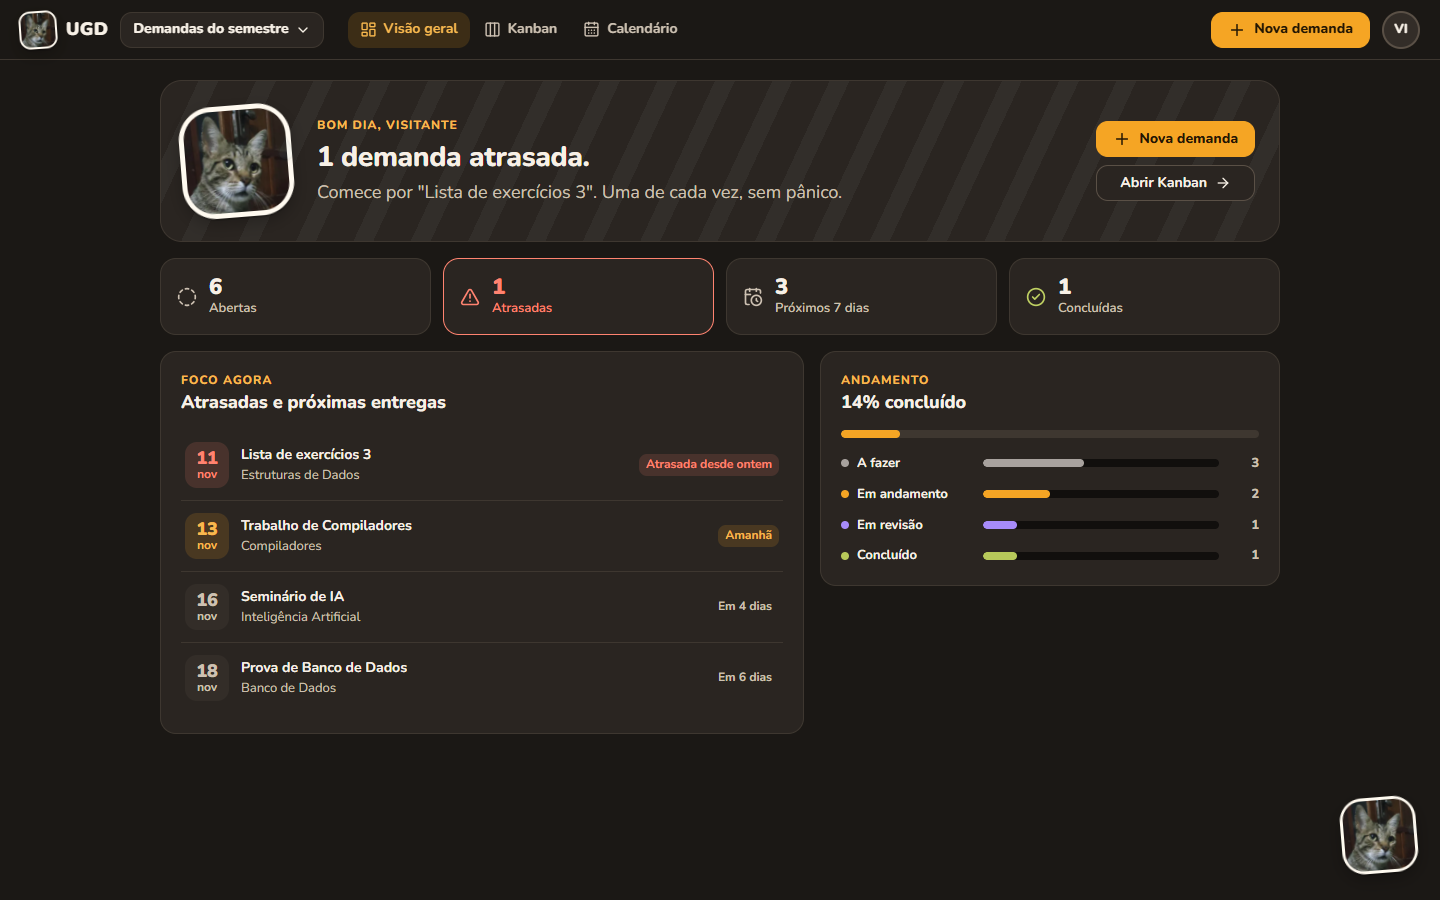
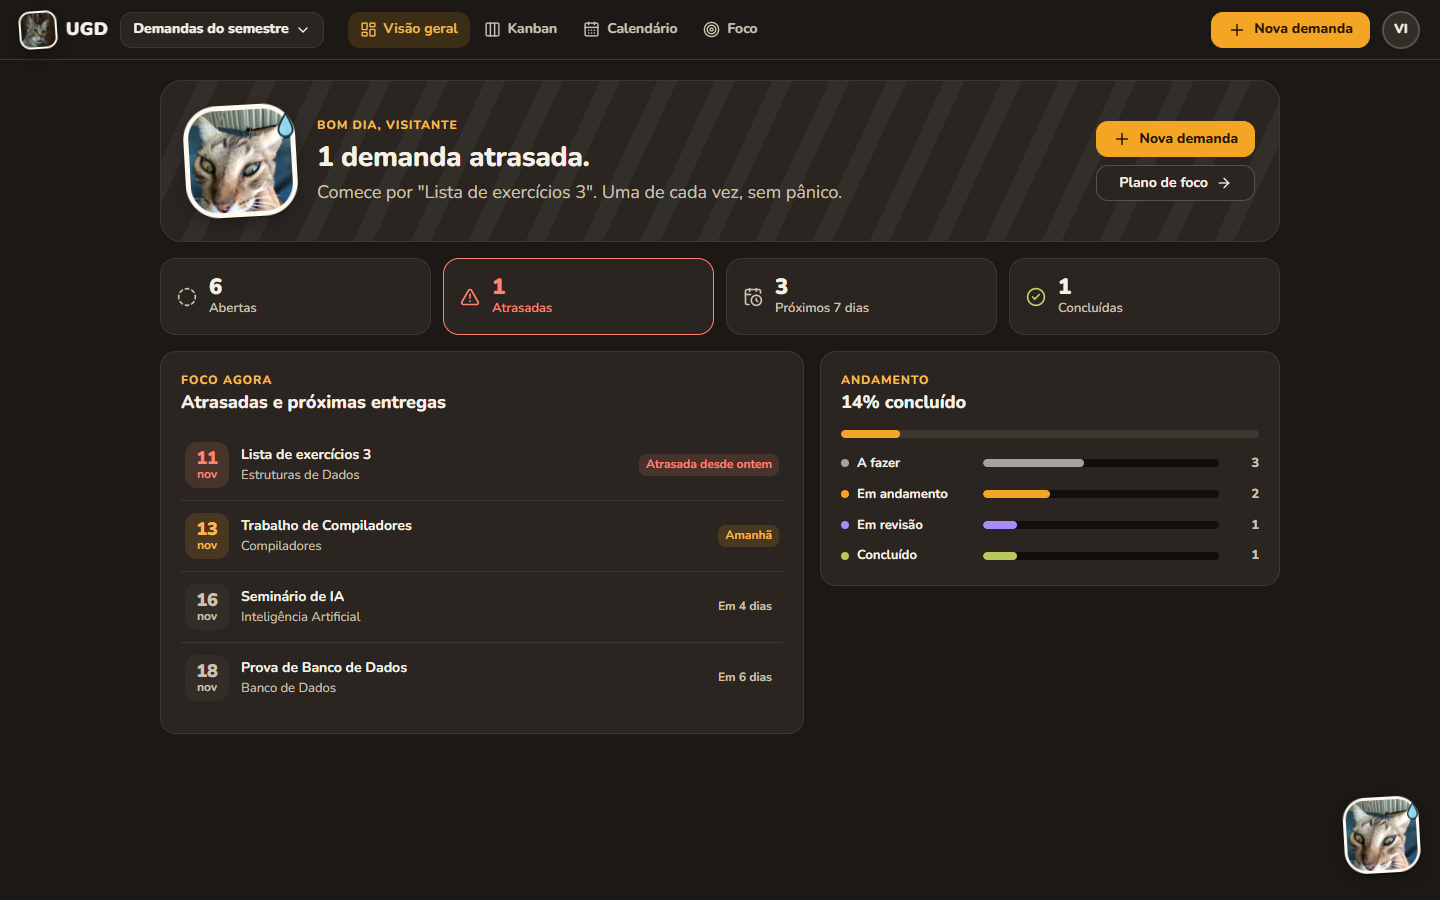
feat(foco): plano de foco / plano do fim de semana
Nova visão que ordena o que fazer: atrasadas, entregas em até 7 dias e o que já foi começado, com o próximo passo de cada demanda e botão para marcá-lo como feito. Entra na navegação (atalho 4) e na barra inferior do celular.

Changed region(s): [[0.125, 0.0933, 0.2188, 0.2489], [0.9062, 0.8711, 1.0, 0.9956], [0.7812, 0.1867, 0.8438, 0.2178]]

diff --git a/src/features/focus/FocusView.tsx b/src/features/focus/FocusView.tsx
@@ -1,0 +1,101 @@
+import { useMemo, useState } from 'react'
+import { ArrowRight, Check, Clock3, Plus } from 'lucide-react'
+import { useOutletContext } from 'react-router-dom'
+import { dueLabel, dueTone, formatDuration } from '../../lib/dates'
+import { buildPlan, type PlanItem } from '../../lib/insights'
+import { typeLabels } from '../../lib/types'
+import { Chiquinho } from '../../mascot/Chiquinho'
+import { catSay, type Mood } from '../../state/feedback'
+import type { BoardContext } from '../shell/BoardLayout'
+
+/**
+ * Plano de foco: a resposta para "é fim de semana, por onde eu começo?".
+ * Mostra, em ordem, o que resolver primeiro e qual é o próximo passo de cada demanda.
+ */
+export default function FocusView() {
+  const { store, openCard, openNew } = useOutletContext<BoardContext>()
+  const plan = useMemo(() => buildPlan(store.cards, store.columns), [store.cards, store.columns])
+  const lastColumn = store.columns[store.columns.length - 1]
+  const [today] = useState(() => new Date().toLocaleDateString('pt-BR', { weekday: 'long', day: 'numeric', month: 'long' }))
+
+  const steps = plan.overdue.length + plan.upcoming.length
+  const mood: Mood = store.cards.length === 0 ? 'sleepy' : plan.total === 0 ? 'party' : plan.overdue.length ? 'worried' : steps ? 'curious' : 'happy'
+  const title = plan.weekend ? 'Plano do fim de semana' : 'Plano de foco'
+  const lead = store.cards.length === 0
+    ? 'Ainda não há demandas. Crie a primeira e eu monto o plano.'
+    : plan.total === 0
+      ? 'Nada pendente com prazo. Pode descansar sem culpa.'
+      : plan.overdue.length
+        ? `Comece ${plan.overdue.length === 1 ? 'pela atrasada' : `pelas ${plan.overdue.length} atrasadas`}; depois siga a ordem abaixo. Um passo de cada vez.`
+        : steps
+          ? `${steps} ${steps === 1 ? 'entrega' : 'entregas'} nos próximos 7 dias. A ordem abaixo já está por prazo.`
+          : 'Sem prazos apertados. Bom momento para adiantar o que já começou.'
+
+  function completeStep(item: PlanItem) {
+    const { card, nextTask } = item
+    if (nextTask) {
+      const tasks = card.tasks.map((task) => (task.id === nextTask.id ? { ...task, done: true, timerStartedAt: null } : task))
+      void store.saveCard({ ...card, tasks }).then((ok) => {
+        if (!ok) return
+        const left = tasks.filter((task) => !task.done).length
+        catSay(left ? `Boa! Faltam ${left} ${left === 1 ? 'passo' : 'passos'} em "${card.title}".` : `"${card.title}" concluída! Orgulho define.`, left ? 'happy' : 'party')
+      })
+    } else if (lastColumn) {
+      void store.moveCard(card.id, lastColumn.id, null)
+    }
+  }
+
+  const section = (heading: string, hint: string, items: PlanItem[], start: number) => items.length > 0 && (
+    <section className="plan__section" aria-label={heading}>
+      <header className="plan__heading"><h2>{heading}</h2><span>{hint}</span></header>
+      <ol className="plan__list" start={start}>
+        {items.map((item, index) => {
+          const { card, nextTask } = item
+          const done = card.tasks.filter((task) => task.done).length
+          return (
+            <li key={card.id} className="plan-item">
+              <span className="plan-item__number" aria-hidden>{start + index}</span>
+              <div className="plan-item__body">
+                <button type="button" className="plan-item__title" onClick={() => openCard(card.id)}>{card.title}</button>
+                <div className="plan-item__meta">
+                  <span className={`chip chip--${card.type}`}>{typeLabels[card.type]}</span>
+                  {card.discipline && <span>{card.discipline}</span>}
+                  {card.due && <span className={`due due--${dueTone(card.due)}`}>{dueLabel(card.due)}</span>}
+                  {card.tasks.length > 0 && <span>{done}/{card.tasks.length} tarefas</span>}
+                  {item.spentSeconds > 0 && <span className="plan-item__time"><Clock3 size={13} aria-hidden /> {formatDuration(item.spentSeconds)}</span>}
+                </div>
+                <div className="plan-item__step">
+                  <span className="plan-item__label">Próximo passo</span>
+                  <span className="plan-item__next">{nextTask ? nextTask.title : card.tasks.length ? 'Tudo feito' : 'Sem tarefas: abra para dividir em passos, ou conclua direto.'}</span>
+                </div>
+              </div>
+              <div className="plan-item__actions">
+                <button type="button" className="btn btn--sm btn--primary" onClick={() => completeStep(item)} aria-label={nextTask ? `Marcar "${nextTask.title}" como feito` : `Concluir ${card.title}`}>
+                  <Check size={15} aria-hidden /> {nextTask ? 'Feito' : 'Concluir'}
+                </button>
+                <button type="button" className="btn btn--sm" onClick={() => openCard(card.id)}>Abrir <ArrowRight size={14} aria-hidden /></button>
+              </div>
+            </li>
+          )
+        })}
+      </ol>
+    </section>
+  )
+
+  return (
+    <div className="plan">
+      <section className="hero">
+        <Chiquinho mood={mood} size={112} />
+        <div className="hero__text">
+          <p className="eyebrow">{today}</p>
+          <h1>{title}</h1>
+          <p>{lead}</p>
+        </div>
+        {plan.total === 0 && <div className="hero__actions"><button type="button" className="btn btn--primary" onClick={() => openNew()}><Plus size={18} aria-hidden /> Nova demanda</button></div>}
+      </section>
+      {section('1. Resolver primeiro', 'atrasadas', plan.overdue, 1)}
+      {section(`${plan.overdue.length ? '2' : '1'}. Entregas da semana`, 'vencem em até 7 dias', plan.upcoming, plan.overdue.length + 1)}
+      {section('Se sobrar tempo, adiante', 'já começadas, sem prazo próximo', plan.advance, plan.overdue.length + plan.upcoming.length + 1)}
+    </div>
+  )
+}

diff --git a/src/features/shell/BoardLayout.tsx b/src/features/shell/BoardLayout.tsx
@@ -50,7 +50,7 @@ function BoardScreen() {
   const searchRef = useRef<HTMLInputElement>(null)
 
   const base = `/q/${boardId}`
-  const view = location.pathname.endsWith('/kanban') ? 'kanban' : location.pathname.endsWith('/calendario') ? 'calendario' : 'visao-geral'
+  const view = location.pathname.endsWith('/kanban') ? 'kanban' : location.pathname.endsWith('/calendario') ? 'calendario' : location.pathname.endsWith('/foco') ? 'foco' : 'visao-geral'
 
   const setFilters = useCallback((patch: Partial<Filters>) => setFiltersState((current) => ({ ...current, ...patch })), [])
   const clearFilters = useCallback(() => setFiltersState(emptyFilters), [])
@@ -69,7 +69,7 @@ function BoardScreen() {
     if (store.status !== 'ready' || !board || greeted.current === board.id) return
     greeted.current = board.id
     // Na visão geral o resumo já está no topo da página; repetir no balão seria ruído.
-    if (view === 'visao-geral') return
+    if (view === 'visao-geral' || view === 'foco') return
     const timer = window.setTimeout(() => catSay(`${brief.title} ${brief.text}`, brief.mood, 7000), 900)
     return () => window.clearTimeout(timer)
   }, [store.status, board, brief, view])
@@ -83,10 +83,11 @@ function BoardScreen() {
       if (document.querySelector('[role="dialog"]')) return
       const go = (path: string) => { event.preventDefault(); navigate(`${base}${path}`) }
       if (event.key === 'n' || event.key === 'N') { event.preventDefault(); setNewCard({}) }
-      else if (event.key === '/') { event.preventDefault(); if (view === 'visao-geral') navigate(`${base}/kanban`); window.setTimeout(() => searchRef.current?.focus(), 30) }
+      else if (event.key === '/') { event.preventDefault(); if (view === 'visao-geral' || view === 'foco') navigate(`${base}/kanban`); window.setTimeout(() => searchRef.current?.focus(), 30) }
       else if (event.key === '1') go('')
       else if (event.key === '2') go('/kanban')
       else if (event.key === '3') go('/calendario')
+      else if (event.key === '4') go('/foco')
       else if (event.key === '?') { event.preventDefault(); setDialog('shortcuts') }
     }
     document.addEventListener('keydown', onKey)
@@ -119,7 +120,7 @@ function BoardScreen() {
         {store.status === 'error' && <StatePanel mood="oops" title="Não consegui carregar o quadro." text="Pode ser a internet. Seus dados continuam salvos; nada foi perdido."
           action={<button type="button" className="btn btn--primary" onClick={store.retry}>Tentar de novo</button>} />}
         {store.status === 'ready' && <>
-          {view !== 'visao-geral' && <FilterBar filters={filters} setFilters={setFilters} clearFilters={clearFilters} cards={store.cards} searchRef={searchRef} shown={visibleCards.length} />}
+          {(view === 'kanban' || view === 'calendario') && <FilterBar filters={filters} setFilters={setFilters} clearFilters={clearFilters} cards={store.cards} searchRef={searchRef} shown={visibleCards.length} />}
           <Outlet context={context} />
         </>}
       </main>
@@ -129,9 +130,7 @@ function BoardScreen() {
         <NavLink to={`${base}/kanban`} className="tabbar__item"><Columns3 size={22} aria-hidden /><span>Kanban</span></NavLink>
         <button type="button" className="tabbar__add" onClick={() => setNewCard({})} aria-label="Nova demanda"><Plus size={26} aria-hidden /></button>
         <NavLink to={`${base}/calendario`} className="tabbar__item"><CalendarDays size={22} aria-hidden /><span>Calendário</span></NavLink>
-        <button type="button" className="tabbar__item tabbar__cat" onClick={() => catSay(`${brief.title} ${brief.text}`, brief.mood, 6000)} aria-label="Resumo do Chiquinho">
-          <Chiquinho mood={brief.mood === 'party' ? 'happy' : 'idle'} size={28} /><span>Chiquinho</span>
-        </button>
+        <NavLink to={`${base}/foco`} className="tabbar__item tabbar__cat"><Chiquinho size={28} /><span>Foco</span></NavLink>
       </nav>
 
       <Companion fallbackMood={store.status === 'ready' ? (brief.mood === 'curious' ? 'idle' : brief.mood) : 'thinking'} />

diff --git a/src/styles/app.css b/src/styles/app.css
@@ -256,3 +256,28 @@ textarea.detail__title { padding: 6px 10px; margin-left: -10px; width: calc(100%
   .auth__card { justify-content: flex-start; padding: var(--sp-5) var(--sp-5) var(--sp-8); border-left: 0; border-top: 1px solid var(--border); }
   .brand--static .brand__name { display: inline; }
 }
+
+/* ---------------------------- Plano de foco ---------------------------- */
+.plan { display: flex; flex-direction: column; gap: var(--sp-5); max-width: 880px; margin: 0 auto; }
+.plan > * { min-width: 0; }
+.plan__section { display: flex; flex-direction: column; gap: var(--sp-3); }
+.plan__heading { display: flex; align-items: baseline; gap: var(--sp-3); }
+.plan__heading span { font-size: var(--fs-sm); color: var(--text-3); }
+.plan__list { display: flex; flex-direction: column; gap: var(--sp-2); margin: 0; padding: 0; list-style: none; }
+.plan-item { display: flex; align-items: flex-start; gap: var(--sp-4); padding: var(--sp-4); border: 1px solid var(--border); border-radius: var(--r-lg); background: var(--surface); box-shadow: var(--shadow-1); }
+.plan-item__number { flex: none; display: grid; place-items: center; width: 32px; height: 32px; border-radius: var(--r-full); background: var(--accent-soft); color: var(--accent-text); font-weight: 900; }
+.plan-item__body { flex: 1; min-width: 0; display: flex; flex-direction: column; gap: var(--sp-2); }
+.plan-item__title { padding: 0; border: 0; background: none; font-size: var(--fs-lg); font-weight: 800; line-height: 1.25; text-align: left; overflow-wrap: anywhere; }
+.plan-item__title:hover { color: var(--accent-text); }
+.plan-item__meta { display: flex; align-items: center; flex-wrap: wrap; gap: var(--sp-2) var(--sp-3); font-size: var(--fs-sm); color: var(--text-2); }
+.plan-item__time { display: inline-flex; align-items: center; gap: 4px; }
+.plan-item__step { display: flex; flex-direction: column; gap: 2px; padding: var(--sp-2) var(--sp-3); border-left: 3px solid var(--accent); border-radius: 0 var(--r-sm) var(--r-sm) 0; background: var(--bg-sunken); }
+.plan-item__label { font-size: var(--fs-xs); font-weight: 800; letter-spacing: 0.06em; text-transform: uppercase; color: var(--text-3); }
+.plan-item__next { font-size: var(--fs-md); font-weight: 700; }
+.plan-item__actions { flex: none; display: flex; flex-direction: column; gap: var(--sp-2); }
+@media (max-width: 720px) {
+  .plan-item { flex-wrap: wrap; gap: var(--sp-3); }
+  .plan-item__body { flex-basis: calc(100% - 48px); }
+  .plan-item__actions { flex-direction: row; width: 100%; }
+  .plan-item__actions .btn { flex: 1; min-height: 44px; }
+}

diff --git a/src/lib/insights.ts b/src/lib/insights.ts
@@ -134,3 +134,59 @@ export const idlePhrases = [
   'Cinco minutinhos de foco e eu paro de te olhar assim.',
   'Se eu consigo sentar desse jeito, você consegue entregar isso.',
 ]
+
+/* ------------------------------ Plano de foco ------------------------------ */
+
+export type PlanItem = {
+  card: Card
+  /** Próxima tarefa ainda não feita, se o card tiver tarefas. */
+  nextTask: Card['tasks'][number] | null
+  /** Tempo já registrado nos timers das tarefas, em segundos. */
+  spentSeconds: number
+}
+
+export type Plan = {
+  weekend: boolean
+  /** Atrasadas: resolver primeiro. */
+  overdue: PlanItem[]
+  /** Com entrega de hoje até 7 dias. */
+  upcoming: PlanItem[]
+  /** Já começadas (fora da primeira coluna) sem prazo próximo: boas para adiantar. */
+  advance: PlanItem[]
+  total: number
+}
+
+const priorityRank: Record<Card['priority'], number> = { critica: 0, urgente: 1, alta: 2, media: 3, baixa: 4 }
+
+function toPlanItem(card: Card): PlanItem {
+  return {
+    card,
+    nextTask: card.tasks.find((task) => !task.done) ?? null,
+    spentSeconds: card.tasks.reduce((total, task) => total + task.elapsedSeconds, 0),
+  }
+}
+
+/**
+ * Monta o plano "o que focar agora" (pensado para sexta à noite e fim de semana):
+ * primeiro o que está atrasado, depois o que vence em até 7 dias, depois o que já está em andamento.
+ */
+export function buildPlan(cards: Card[], columns: Column[], now: Date = new Date()): Plan {
+  const open = cards.filter((card) => !isDone(card, columns))
+  const byUrgency = (a: Card, b: Card) => (a.due || '9999').localeCompare(b.due || '9999') || priorityRank[a.priority] - priorityRank[b.priority]
+  const days = (card: Card) => daysUntil(card.due, now)
+  const overdue = open.filter((card) => { const left = days(card); return left !== null && left < 0 }).sort(byUrgency)
+  const upcoming = open.filter((card) => { const left = days(card); return left !== null && left >= 0 && left <= 7 }).sort(byUrgency)
+  const taken = new Set([...overdue, ...upcoming].map((card) => card.id))
+  const firstColumn = columns[0]?.id
+  const advance = open
+    .filter((card) => !taken.has(card.id) && (card.column !== firstColumn || card.tasks.some((task) => task.done)))
+    .sort((a, b) => priorityRank[a.priority] - priorityRank[b.priority] || byUrgency(a, b))
+    .slice(0, 5)
+  return {
+    weekend: isWeekend(now) || now.getDay() === 5,
+    overdue: overdue.map(toPlanItem),
+    upcoming: upcoming.map(toPlanItem),
+    advance: advance.map(toPlanItem),
+    total: overdue.length + upcoming.length + advance.length,
+  }
+}

diff --git a/src/lib/logic.test.ts b/src/lib/logic.test.ts
@@ -1,6 +1,6 @@
 import { describe, expect, it } from 'vitest'
 import { daysUntil, dueLabel, dueTone, formatDuration, parseISODate, startOfWeek, toISODate } from './dates'
-import { briefing, emptyFilters, isDone, matchesFilters, summarize } from './insights'
+import { briefing, buildPlan, emptyFilters, isDone, matchesFilters, summarize } from './insights'
 import { planMove } from './order'
 import { friendlyError } from './supabase'
 import type { Card, Column } from './types'
@@ -109,5 +109,33 @@ describe('mensagens de erro', () => {
   it('traduz erros de autenticação e nunca mostra a mensagem crua', () => {
     expect(friendlyError({ message: 'Invalid login credentials' })).toBe('E-mail ou senha incorretos.')
     expect(friendlyError({ message: 'relation "cards" violates row-level security policy' }, 'Não foi possível salvar.')).toBe('Não foi possível salvar.')
+  })
+})
+
+describe('plano de foco', () => {
+  const task = (id: string, done: boolean) => ({ id, title: `Passo ${id}`, done, elapsedSeconds: 600, timerStartedAt: null })
+  const three: Column[] = [columns[0], { id: 'doing', title: 'Em andamento', color: '#000', position: 1500 }, columns[1]]
+
+  it('ordena: atrasadas, depois entregas em até 7 dias, depois o que já começou', () => {
+    const plan = buildPlan([
+      card({ id: 'semana', due: '2026-11-16' }),
+      card({ id: 'atrasada', due: '2026-11-09' }),
+      card({ id: 'hoje', due: '2026-11-12', priority: 'alta' }),
+      card({ id: 'longe', due: '2026-12-20' }),
+      card({ id: 'andando', column: 'doing' }),
+      card({ id: 'pronta', due: '2026-11-13', column: 'done' }),
+    ], three, now)
+    expect(plan.overdue.map((item) => item.card.id)).toEqual(['atrasada'])
+    expect(plan.upcoming.map((item) => item.card.id)).toEqual(['hoje', 'semana'])
+    expect(plan.advance.map((item) => item.card.id)).toEqual(['andando'])
+    expect(plan.total).toBe(4)
+    expect(plan.weekend).toBe(false) // quinta-feira
+    expect(buildPlan([], three, new Date(2026, 10, 14)).weekend).toBe(true) // sábado
+  })
+
+  it('aponta o próximo passo e soma o tempo já gasto', () => {
+    const [item] = buildPlan([card({ due: '2026-11-13', tasks: [task('a', true), task('b', false), task('c', false)] })], three, now).upcoming
+    expect(item.nextTask?.id).toBe('b')
+    expect(item.spentSeconds).toBe(1800)
   })
 })

diff --git a/src/features/overview/OverviewView.tsx b/src/features/overview/OverviewView.tsx
@@ -1,7 +1,7 @@
-import { useMemo } from 'react'
+import { useMemo, useState } from 'react'
 import { AlertTriangle, ArrowRight, CalendarClock, CheckCircle2, CircleDashed, Plus } from 'lucide-react'
 import { useNavigate, useOutletContext } from 'react-router-dom'
-import { dueLabel, dueTone, parseISODate } from '../../lib/dates'
+import { dueLabel, dueTone, isWeekend, parseISODate } from '../../lib/dates'
 import { briefing, summarize } from '../../lib/insights'
 import type { Card } from '../../lib/types'
 import { Chiquinho } from '../../mascot/Chiquinho'
@@ -18,6 +18,7 @@ export function OverviewView() {
   const { store, board, openCard, openNew, setFilters, clearFilters } = useOutletContext<BoardContext>()
   const { user } = useAuth()
   const navigate = useNavigate()
+  const [weekendMode] = useState(() => isWeekend() || new Date().getDay() === 5)
   const summary = useMemo(() => summarize(store.cards, store.columns), [store.cards, store.columns])
   const brief = briefing(summary)
   const focus: Card[] = [...summary.late, ...summary.today, ...summary.week].slice(0, 8)
@@ -35,7 +36,7 @@ export function OverviewView() {
         </div>
         <div className="hero__actions">
           <button type="button" className="btn btn--primary" onClick={() => openNew()}><Plus size={18} aria-hidden /> Nova demanda</button>
-          <button type="button" className="btn" onClick={() => navigate(kanban)}>Abrir Kanban <ArrowRight size={16} aria-hidden /></button>
+          <button type="button" className="btn" onClick={() => navigate(`/q/${board.id}/foco`)}>{weekendMode ? 'Plano do fim de semana' : 'Plano de foco'} <ArrowRight size={16} aria-hidden /></button>
         </div>
       </section>
 

diff --git a/src/features/shell/Topbar.tsx b/src/features/shell/Topbar.tsx
@@ -1,4 +1,4 @@
-import { CalendarDays, Check, ChevronDown, Columns3, Keyboard, LayoutDashboard, LogOut, Monitor, Moon, Pencil, Plus, Settings, Sun, Trash2, Volume2, VolumeX } from 'lucide-react'
+import { CalendarDays, Check, ChevronDown, Columns3, Keyboard, LayoutDashboard, LogOut, Monitor, Moon, Pencil, Plus, Settings, Sun, Target, Trash2, Volume2, VolumeX } from 'lucide-react'
 import { Link, NavLink } from 'react-router-dom'
 import type { Board } from '../../lib/types'
 import { Chiquinho } from '../../mascot/Chiquinho'
@@ -54,6 +54,7 @@ export function Topbar({ board, boards, base, userName, userEmail, onNewCard, on
         <NavLink to={base} end className="views__item"><LayoutDashboard size={17} aria-hidden /> Visão geral</NavLink>
         <NavLink to={`${base}/kanban`} className="views__item"><Columns3 size={17} aria-hidden /> Kanban</NavLink>
         <NavLink to={`${base}/calendario`} className="views__item"><CalendarDays size={17} aria-hidden /> Calendário</NavLink>
+        <NavLink to={`${base}/foco`} className="views__item"><Target size={17} aria-hidden /> Foco</NavLink>
       </nav>
 
       <div className="topbar__end">

diff --git a/src/App.tsx b/src/App.tsx
@@ -12,6 +12,7 @@ import { useBoards, type BoardsState } from './state/board'
 // Kanban (com a biblioteca de arraste) e Calendário só são baixados quando abertos.
 const BoardView = lazy(() => import('./features/board/BoardView'))
 const CalendarView = lazy(() => import('./features/calendar/CalendarView'))
+const FocusView = lazy(() => import('./features/focus/FocusView'))
 const loadingView = <StatePanel mood="thinking" title="Abrindo…" busy />
 
 /** Área logada: carrega os quadros do usuário e entrega para as rotas filhas. */
@@ -66,6 +67,7 @@ export function AppRoutes() {
           <Route path="q/:boardId" element={<BoardLayout />}>
             <Route index element={<OverviewView />} />
             <Route path="kanban" element={<Suspense fallback={loadingView}><BoardView /></Suspense>} />
+            <Route path="foco" element={<Suspense fallback={loadingView}><FocusView /></Suspense>} />
             <Route path="calendario" element={<Suspense fallback={loadingView}><CalendarView /></Suspense>} />
           </Route>
         </Route>

diff --git a/src/App.test.tsx b/src/App.test.tsx
@@ -78,6 +78,16 @@ describe('fluxos principais', () => {
     expect(await screen.findByText(/Quadro vazio/)).toBeInTheDocument()
   })
 
+  it('no plano de foco, marcar o próximo passo como feito avança a demanda', async () => {
+    const user = await open()
+    await user.click(views().getByRole('link', { name: /foco/i }))
+    expect(await screen.findByRole('heading', { level: 1, name: /plano/i })).toBeInTheDocument()
+    const first = screen.getByRole('region', { name: /resolver primeiro/i })
+    expect(within(first).getByText('Lista de exercícios 3')).toBeInTheDocument()
+    await user.click(screen.getByRole('button', { name: 'Marcar "Escrever relatório" como feito' }))
+    await waitFor(() => expect(screen.queryByText('Trabalho de Compiladores')).not.toBeInTheDocument())
+  })
+
   it('mostra estado vazio com o Chiquinho para quem acabou de chegar', async () => {
     await open('/', { empty: true })
     expect(await screen.findByRole('heading', { level: 1, name: /tudo vazio/i })).toBeInTheDocument()

diff --git a/src/features/settings/SettingsDialog.tsx b/src/features/settings/SettingsDialog.tsx
@@ -110,7 +110,7 @@ export function SettingsDialog({ onClose }: { onClose: () => void }) {
 const shortcuts: [string, string][] = [
   ['N', 'Nova demanda'],
   ['/', 'Buscar demandas'],
-  ['1  2  3', 'Visão geral, Kanban, Calendário'],
+  ['1  2  3  4', 'Visão geral, Kanban, Calendário, Foco'],
   ['Espaço', 'Pegar/soltar a demanda em foco (setas movem)'],
   ['Enter', 'Abrir a demanda em foco'],
   ['Esc', 'Fechar diálogo ou menu'],
